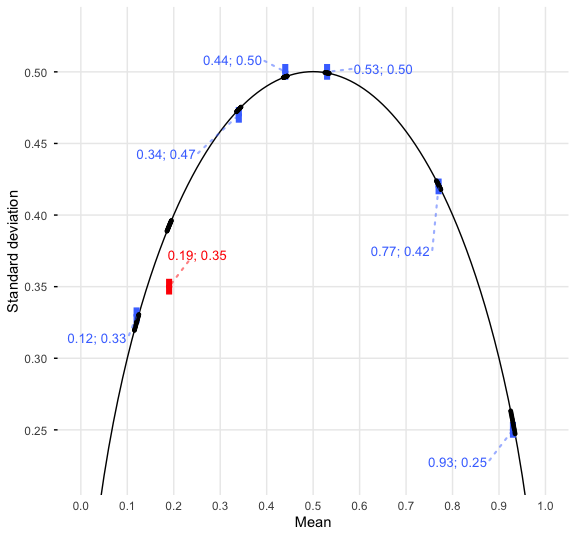
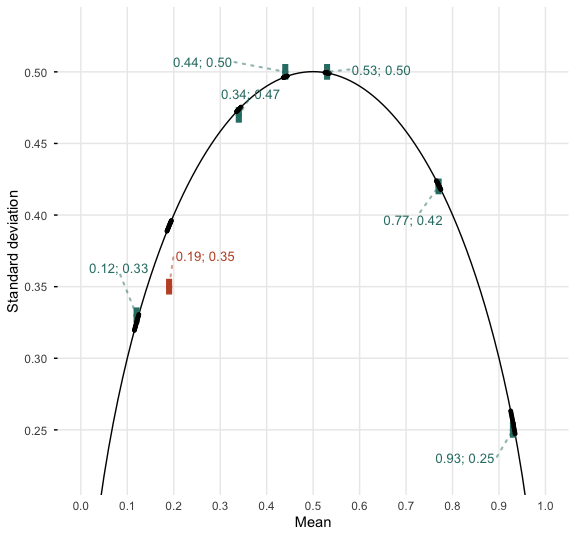
Color consistency teal and rust in all plots
* grim_plot_grid() and debit_plot() draw consistent value sets in teal (#2f7d74) and inconsistent ones in rust (#c1522e), as the comb plots already did, instead of royalblue1 and red. A new COLORS_CONSISTENCY constant holds them.
* The examples show how to get the old colors back, and the docs, vignettes, README, and NEWS name the new ones.

diff --git a/NEWS.md b/NEWS.md
@@ -190,7 +190,7 @@ The tests, their three mapper tiers, and `audit()` are the stable core of this r
 
 - `duplicate_detect()`, superseded since 0.3.0, was removed in favor of `duplicate_tally()`.
 
-- `debit_plot()` and `grim_plot_grid()` map `consistency` to one scale for `colour` and `fill`, so that `ggplot2::scale_colour_manual()` with `aesthetics = c("colour", "fill")` restyles them. The arguments for fixed styles were removed: `debit_plot()`'s `color_cons`, `color_incons`, `rect_alpha`, `line_*`, and `label_*`, and `grim_plot_grid()`'s `color_cons`, `color_incons`, `tile_alpha`, and `raster_alpha`.
+- `debit_plot()` and `grim_plot_grid()` map `consistency` to one scale for `colour` and `fill`, so that `ggplot2::scale_colour_manual()` with `aesthetics = c("colour", "fill")` restyles them. Consistent value sets are teal and inconsistent ones rust, as in `grim_plot_values()` and `grimmer_plot_values()`, rather than blue and red. The arguments for fixed styles were removed: `debit_plot()`'s `color_cons`, `color_incons`, `rect_alpha`, `line_*`, and `label_*`, and `grim_plot_grid()`'s `color_cons`, `color_incons`, `tile_alpha`, and `raster_alpha`.
 
 - `seq_disperse()` and `seq_disperse_df()` return numbers, not strings, and lost their `string_output` argument. A string `from` still sets the step size by its decimal places, trailing zeros included.
 

diff --git a/README.md b/README.md
@@ -117,7 +117,7 @@ grim_map(pigs2, digits_x = 1, items_averaged = 1, percent = TRUE)
 ```
 
 Choose how the means were rounded — below, up from 5. The plot adjusts
-to the rounding method. Blue tiles are consistent, red tiles
+to the rounding method. Teal tiles are consistent, rust tiles
 inconsistent:
 
 ``` r
